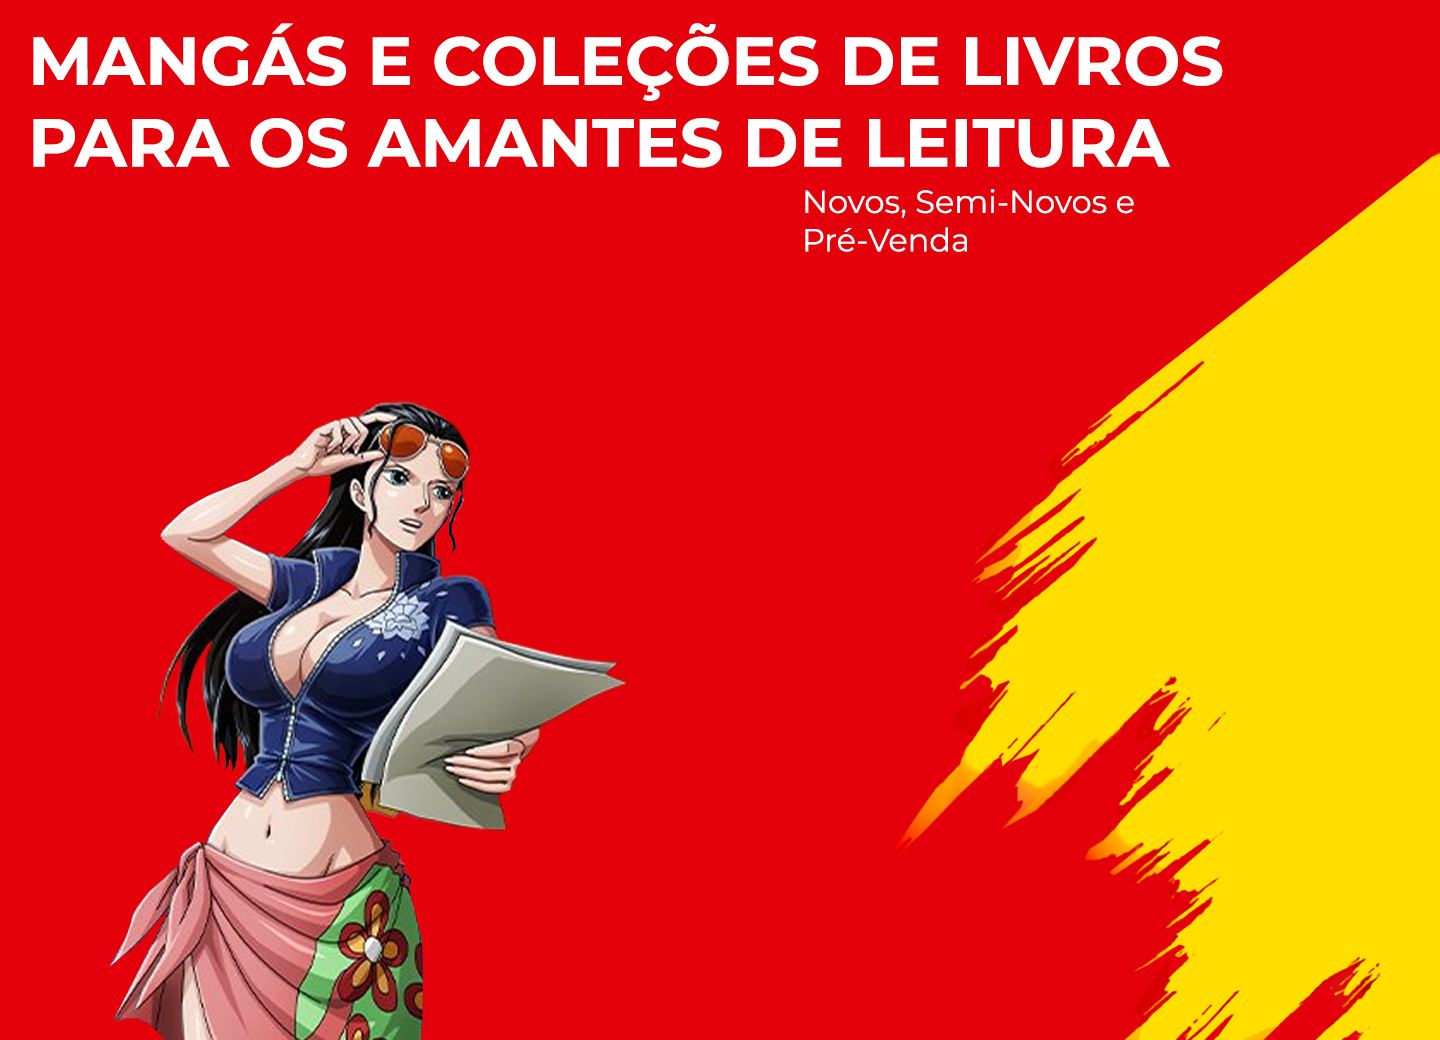
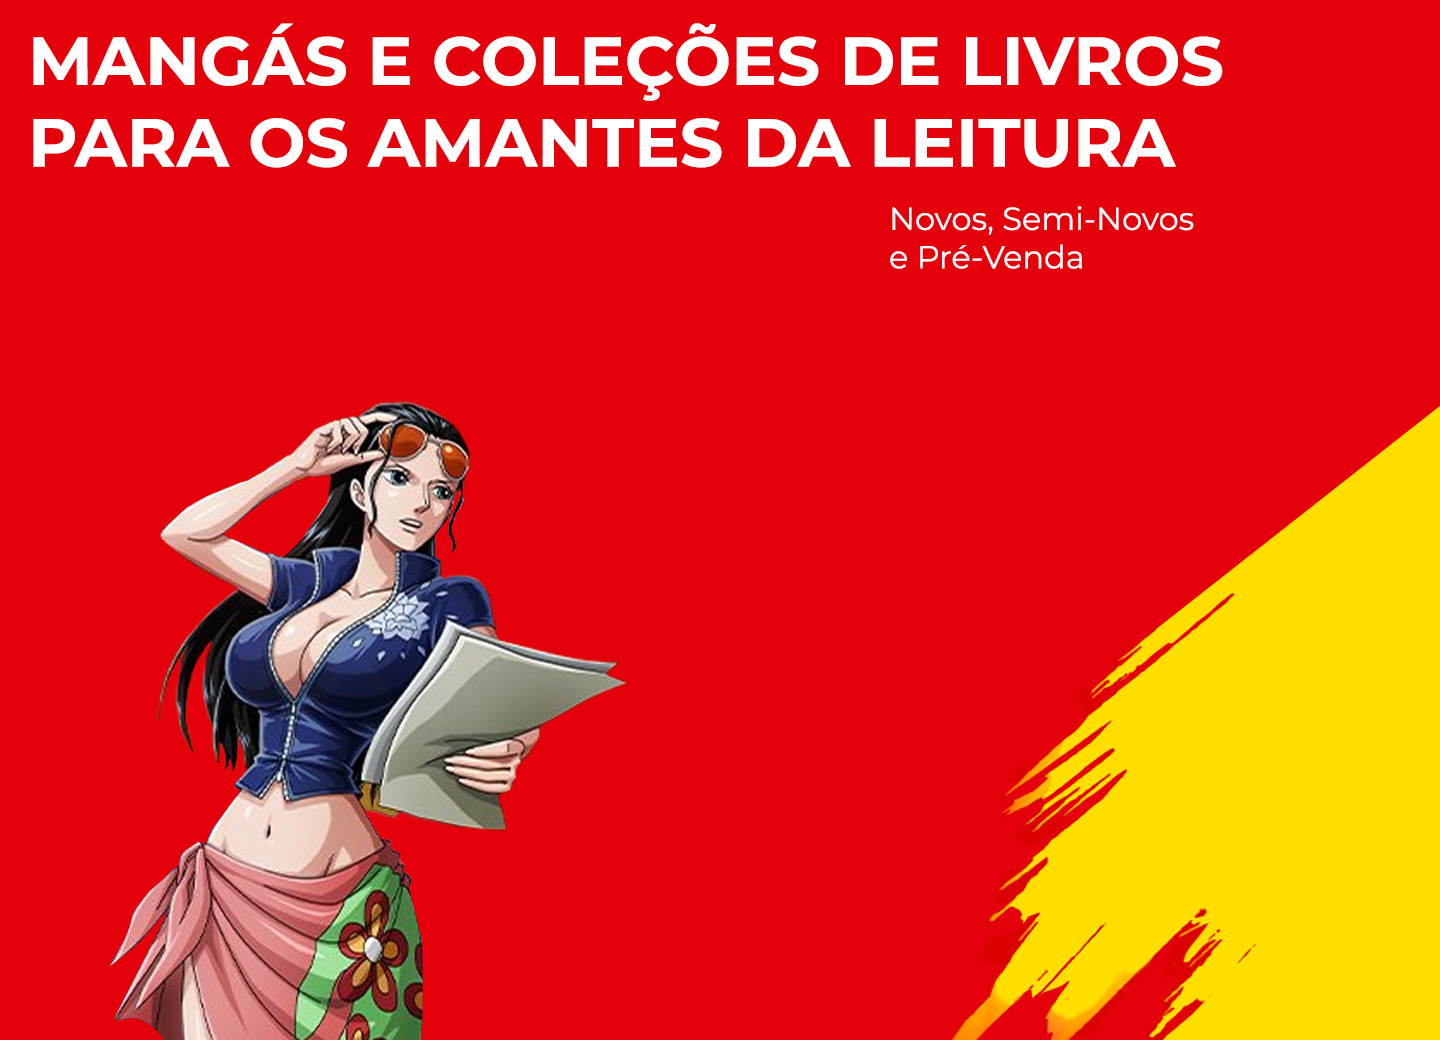
"Update das imagens e do carrossel"

Changed region(s): [[0.625, 0.1538, 1.0, 1.0], [0.5625, 0.0923, 0.8125, 0.2769]]

diff --git a/src/app/pages/home/home.component.html b/src/app/pages/home/home.component.html
@@ -1,15 +1,17 @@
-
+<div class="container">
 
   <div id="carouselExampleFade" class="carousel slide carousel-fade" data-ride="carousel">
     <div class="carousel-inner">
       <div class="carousel-item active">
-        <img class="d-block w-70" src="https://cdn.xxl.thumbs.canstockphoto.com.br/galinha-assado-banco-de-fotos_csp30894122.jpg" alt="Primeiro Slide">
+        <img class="d-block " src="../../../assets/slide_1.jpg" alt="Primeiro Slide">
       </div>
       <div class="carousel-item">
-        <img class="d-block w-90" src="https://media.gettyimages.com/id/172916013/pt/foto/frango-assado.jpg?s=612x612&w=gi&k=20&c=psRke4SDXlpMgV2oIy1bq1dUX6GmVJJ25TEo_GrjtLQ=" alt="Segundo Slide">
+        <img class="d-block" src="../../../assets/slide_2.jpg" alt="Segundo Slide">
       </div>
       <div class="carousel-item">
-        <img class="d-block w-90" src="https://cdn.xxl.thumbs.canstockphoto.com.br/galinha-assado-banco-de-fotos_csp30894122.jpg" alt="Terceiro Slide">
+        <img class="d-block " src="../../../assets/slide_3.jpg" alt="Terceiro Slide">
       </div>
     </div>
   </div>
+  <img class="d-block-d" src="../../../assets/app.jpg" alt="Segundo Slide">
+</div>

diff --git a/src/app/pages/home/home.component.scss b/src/app/pages/home/home.component.scss
@@ -1,0 +1,15 @@
+.d-block{
+    border-radius: 24px;
+    margin-left: 8px;
+    width: 90%;
+}
+
+.d-block-d{
+    width: 32%;
+    border-radius: 28px;
+}
+
+.container{
+    display: flex;
+    flex-direction: row;
+}
